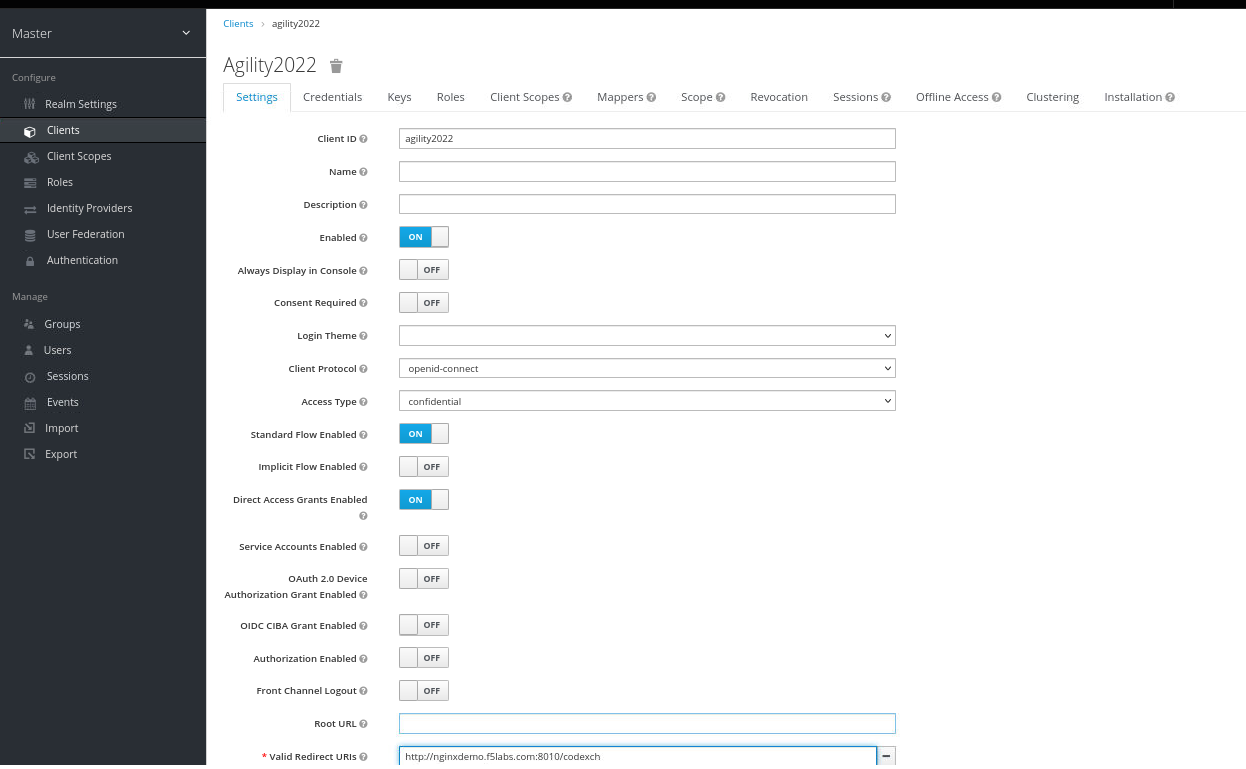
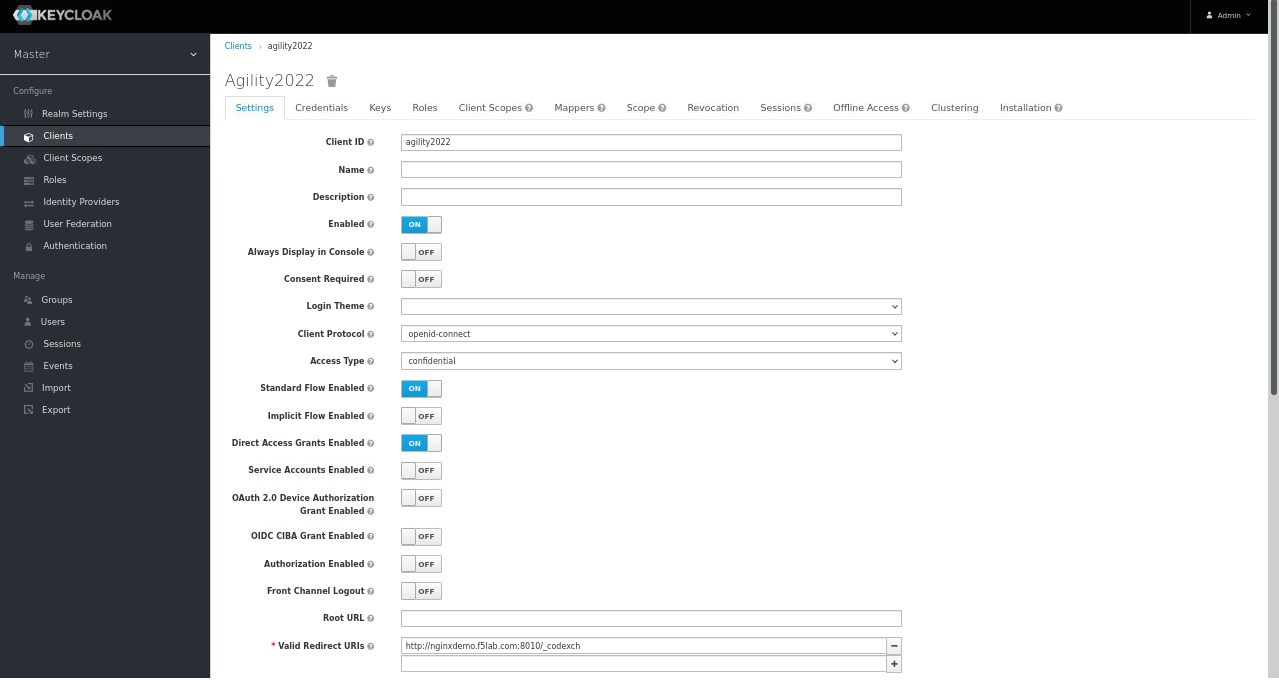
update class 9

diff --git a/docs/class9/module1/module1.rst b/docs/class9/module1/module1.rst
@@ -241,7 +241,7 @@ Please copy and paste the below command into the webshell
 
 .. code:: shell
 
-	./nginx-openid-connect/configure.sh -h nginxdemo.f5lab.com:8010 -k request -i agility2020 -s W0sBg99NMwag7ZPsegeluvKti9pjY8CM -x http://idp.f5lab.com:8080/auth/realms/master/.well-known/openid-configuration
+	./nginx-openid-connect/configure.sh -h nginxdemo.f5lab.com:8010 -k request -i agility2022 -s W0sBg99NMwag7ZPsegeluvKti9pjY8CM -x http://idp.f5lab.com:8080/auth/realms/master/.well-known/openid-configuration
 
 Output:
 
@@ -266,6 +266,7 @@ Output:
 Change Directory
 
 .. code:: shell
+	
 	cd /nginx-openid-connect/
 
 Now that you are in the nginx-openid-connect directory copy the below files.
@@ -275,6 +276,95 @@ frontend.conf  openid_connect.js  openid_connect.server_conf  openid_connect_con
 .. code:: shell
 
 	cp frontend.conf openid_connect.js openid_connect.server_conf openid_connect_configuration.conf /etc/nginx/conf.d/
+
+After copying files change directory to /etc/nginx/conf.d/
+
+.. code:: shell 
+
+	cd /etc/nginx/cond.d/
+
+Using Nano edit the frontend.conf file
+
+.. code:: shell
+
+	nano frontend.conf
+
+Update the server to 10.1.1.4:8081
+
+.. image:: ../images/frontend_conf.png
+	:width: 800
+
+**save file and close**
+
+Using Nano edit the openid_connect.server_conf file
+
+.. code:: shell
+
+	nano openid_connect.server_conf
+
+Update the resolver to use local host file. 
+
+.. image:: ../images/host_lookup.png
+	:width: 800
+
+**save and close file**
+
+.. note:: 
+
+	using host file because this is a lab make sure to put in LDNS server for resolver.
+
+Using Nano edit the openid_connect_configuration.conf
+
+.. code:: shell
+
+	nano openid_connect_configuration.conf
+
+modify secret from 0 to "yourclientsecret"
+
+.. image:: ../images/save_secret.png
+	:width: 800
+
+**save and close file**
+
+Reload Nginx
+
+.. code:: shell
+
+	nginx -s reload
+
+Testing the config
+==================
+
+Now that everything is done lets test the config!
+
+Go back to firefox and open a new tab and put http://nginxdemo.f5lab.com:8010 into the browser url field and launch the page.
+
+.. image:: ../images/test_oidc.png
+	:width: 800
+
+Notice you'll be redirected to the IdP for login. 
+
+Once on the IdP page put in the credentials for the user you created. user01 with password agility2022
+
+.. image:: ../images/auth_login.png
+	:width: 800
+
+
+
+
+
+
+You should now see the webservice!!!!!! You've been logged in and the browser has been issued a JWT Token establishing identity!
+
+.. image:: ../images/verificaion_webservice.png
+	:width: 800
+
+
+
+
+
+
+
 
 
 
